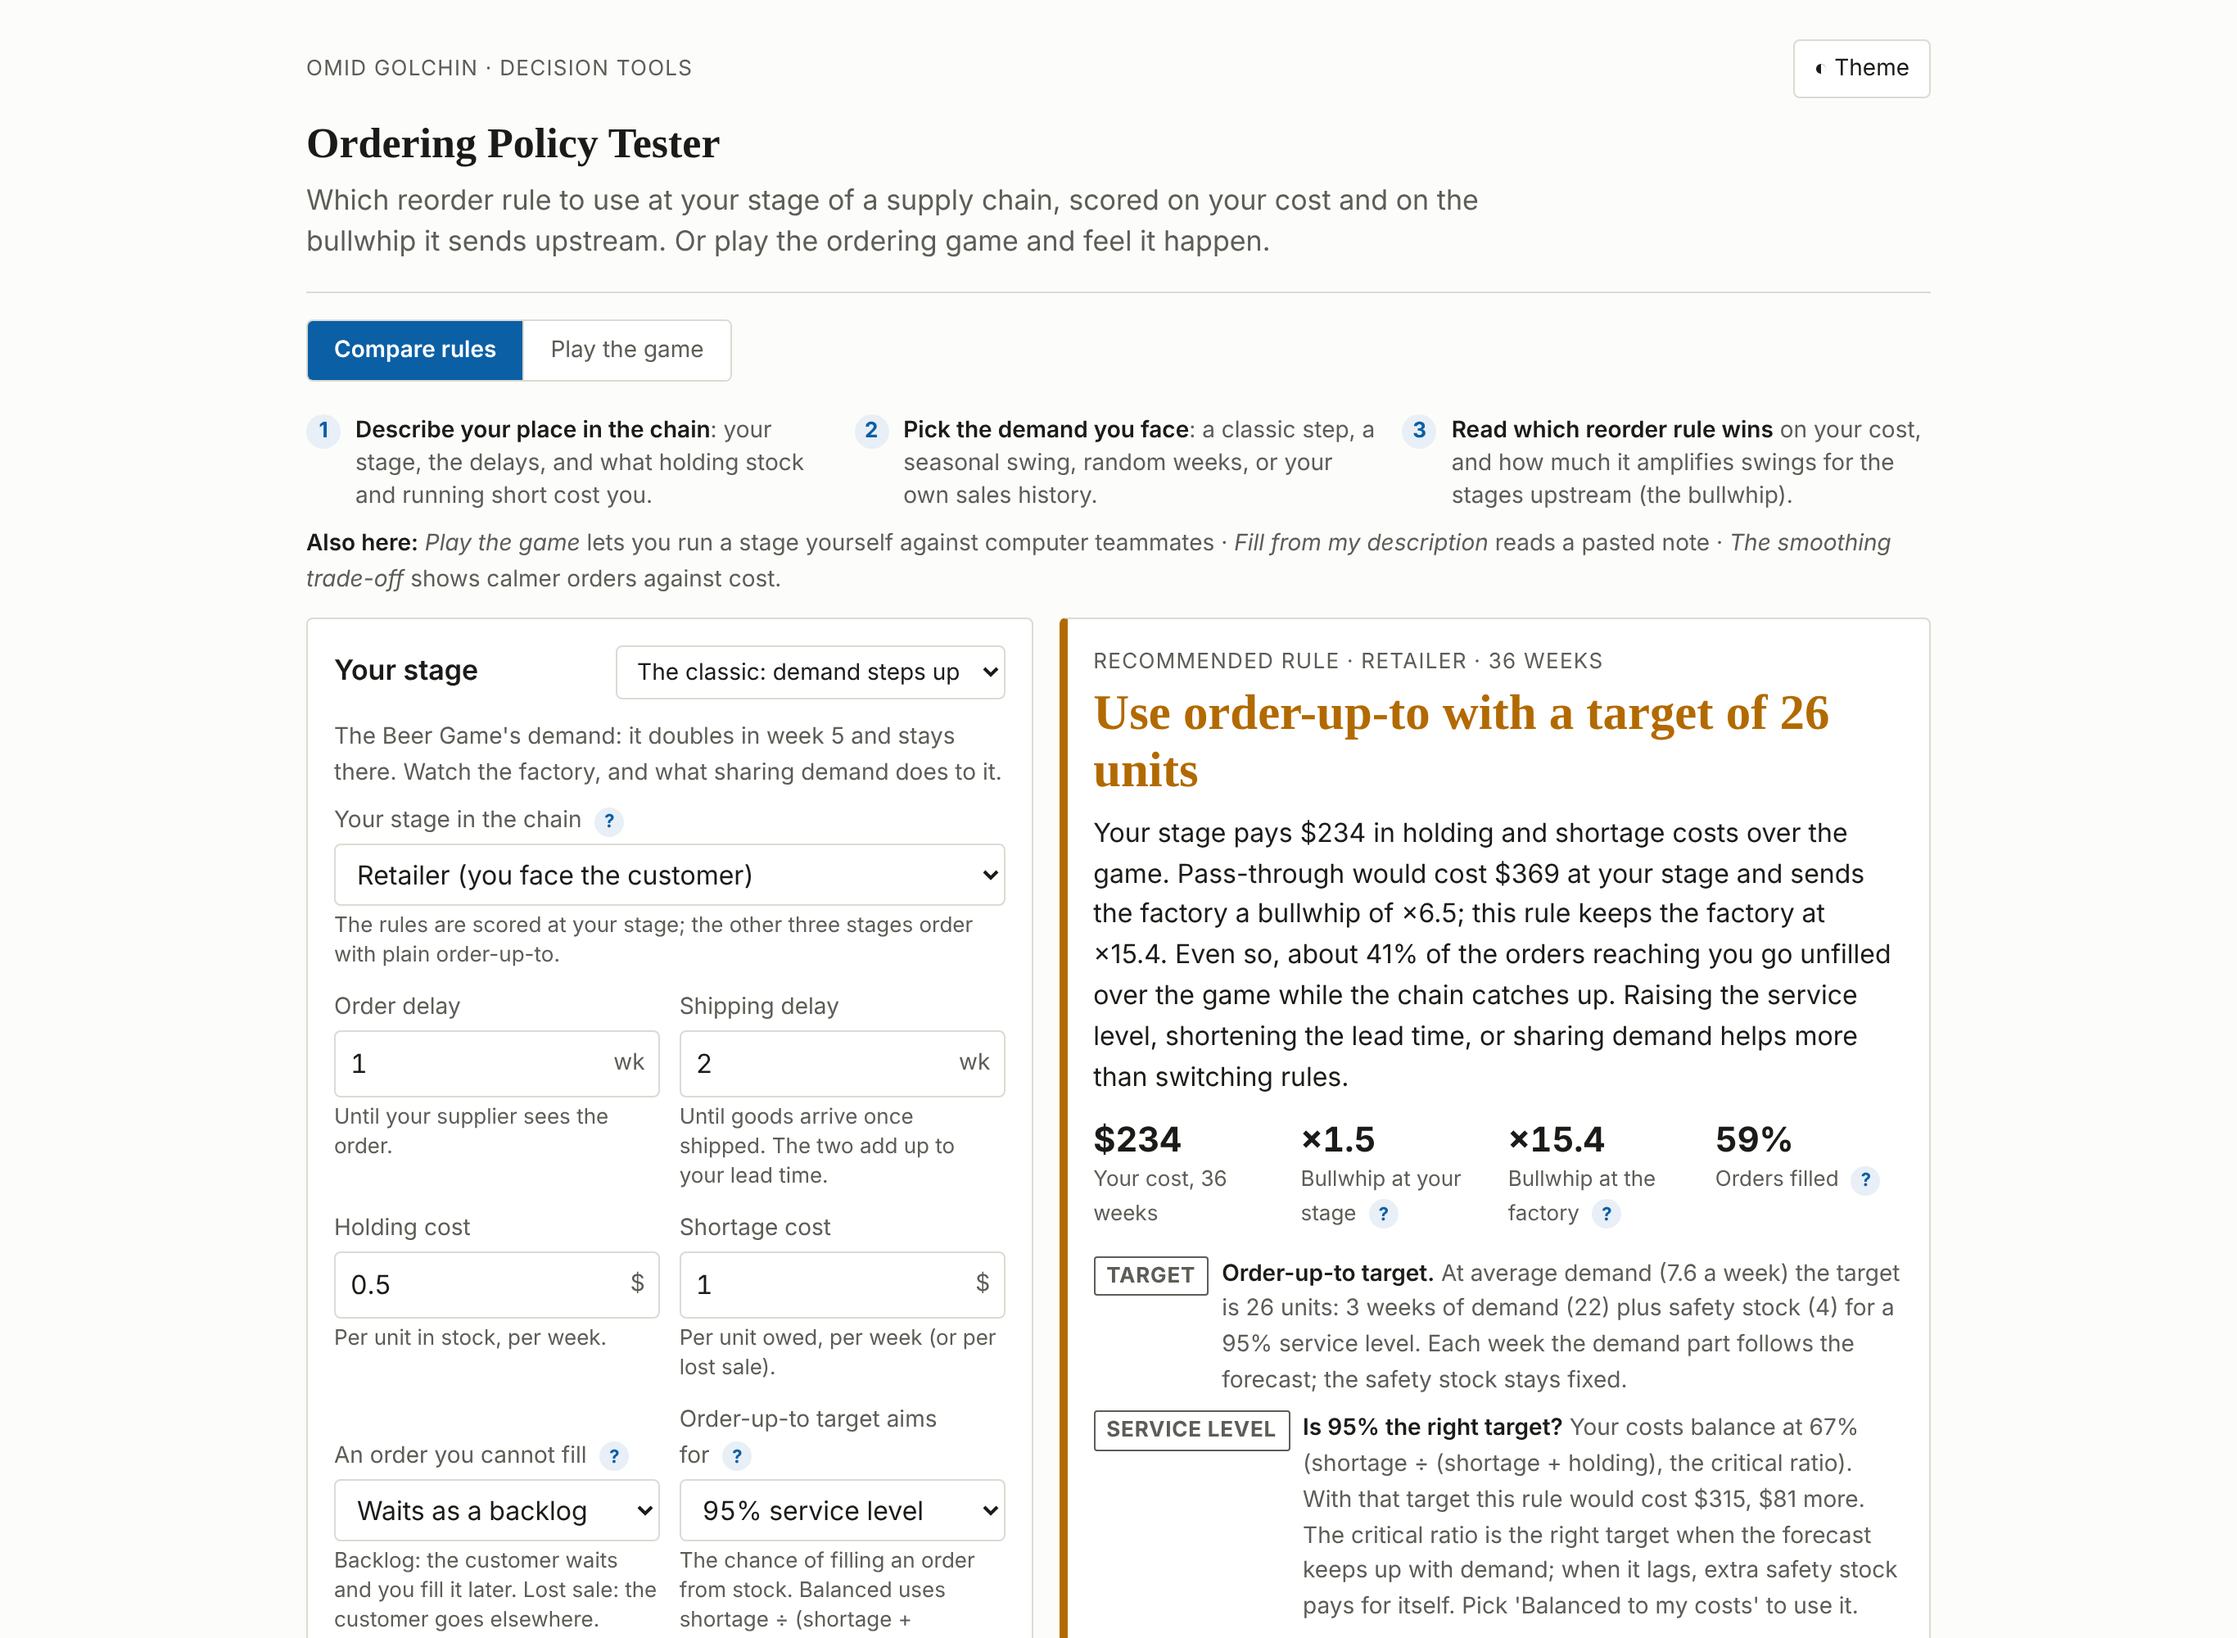
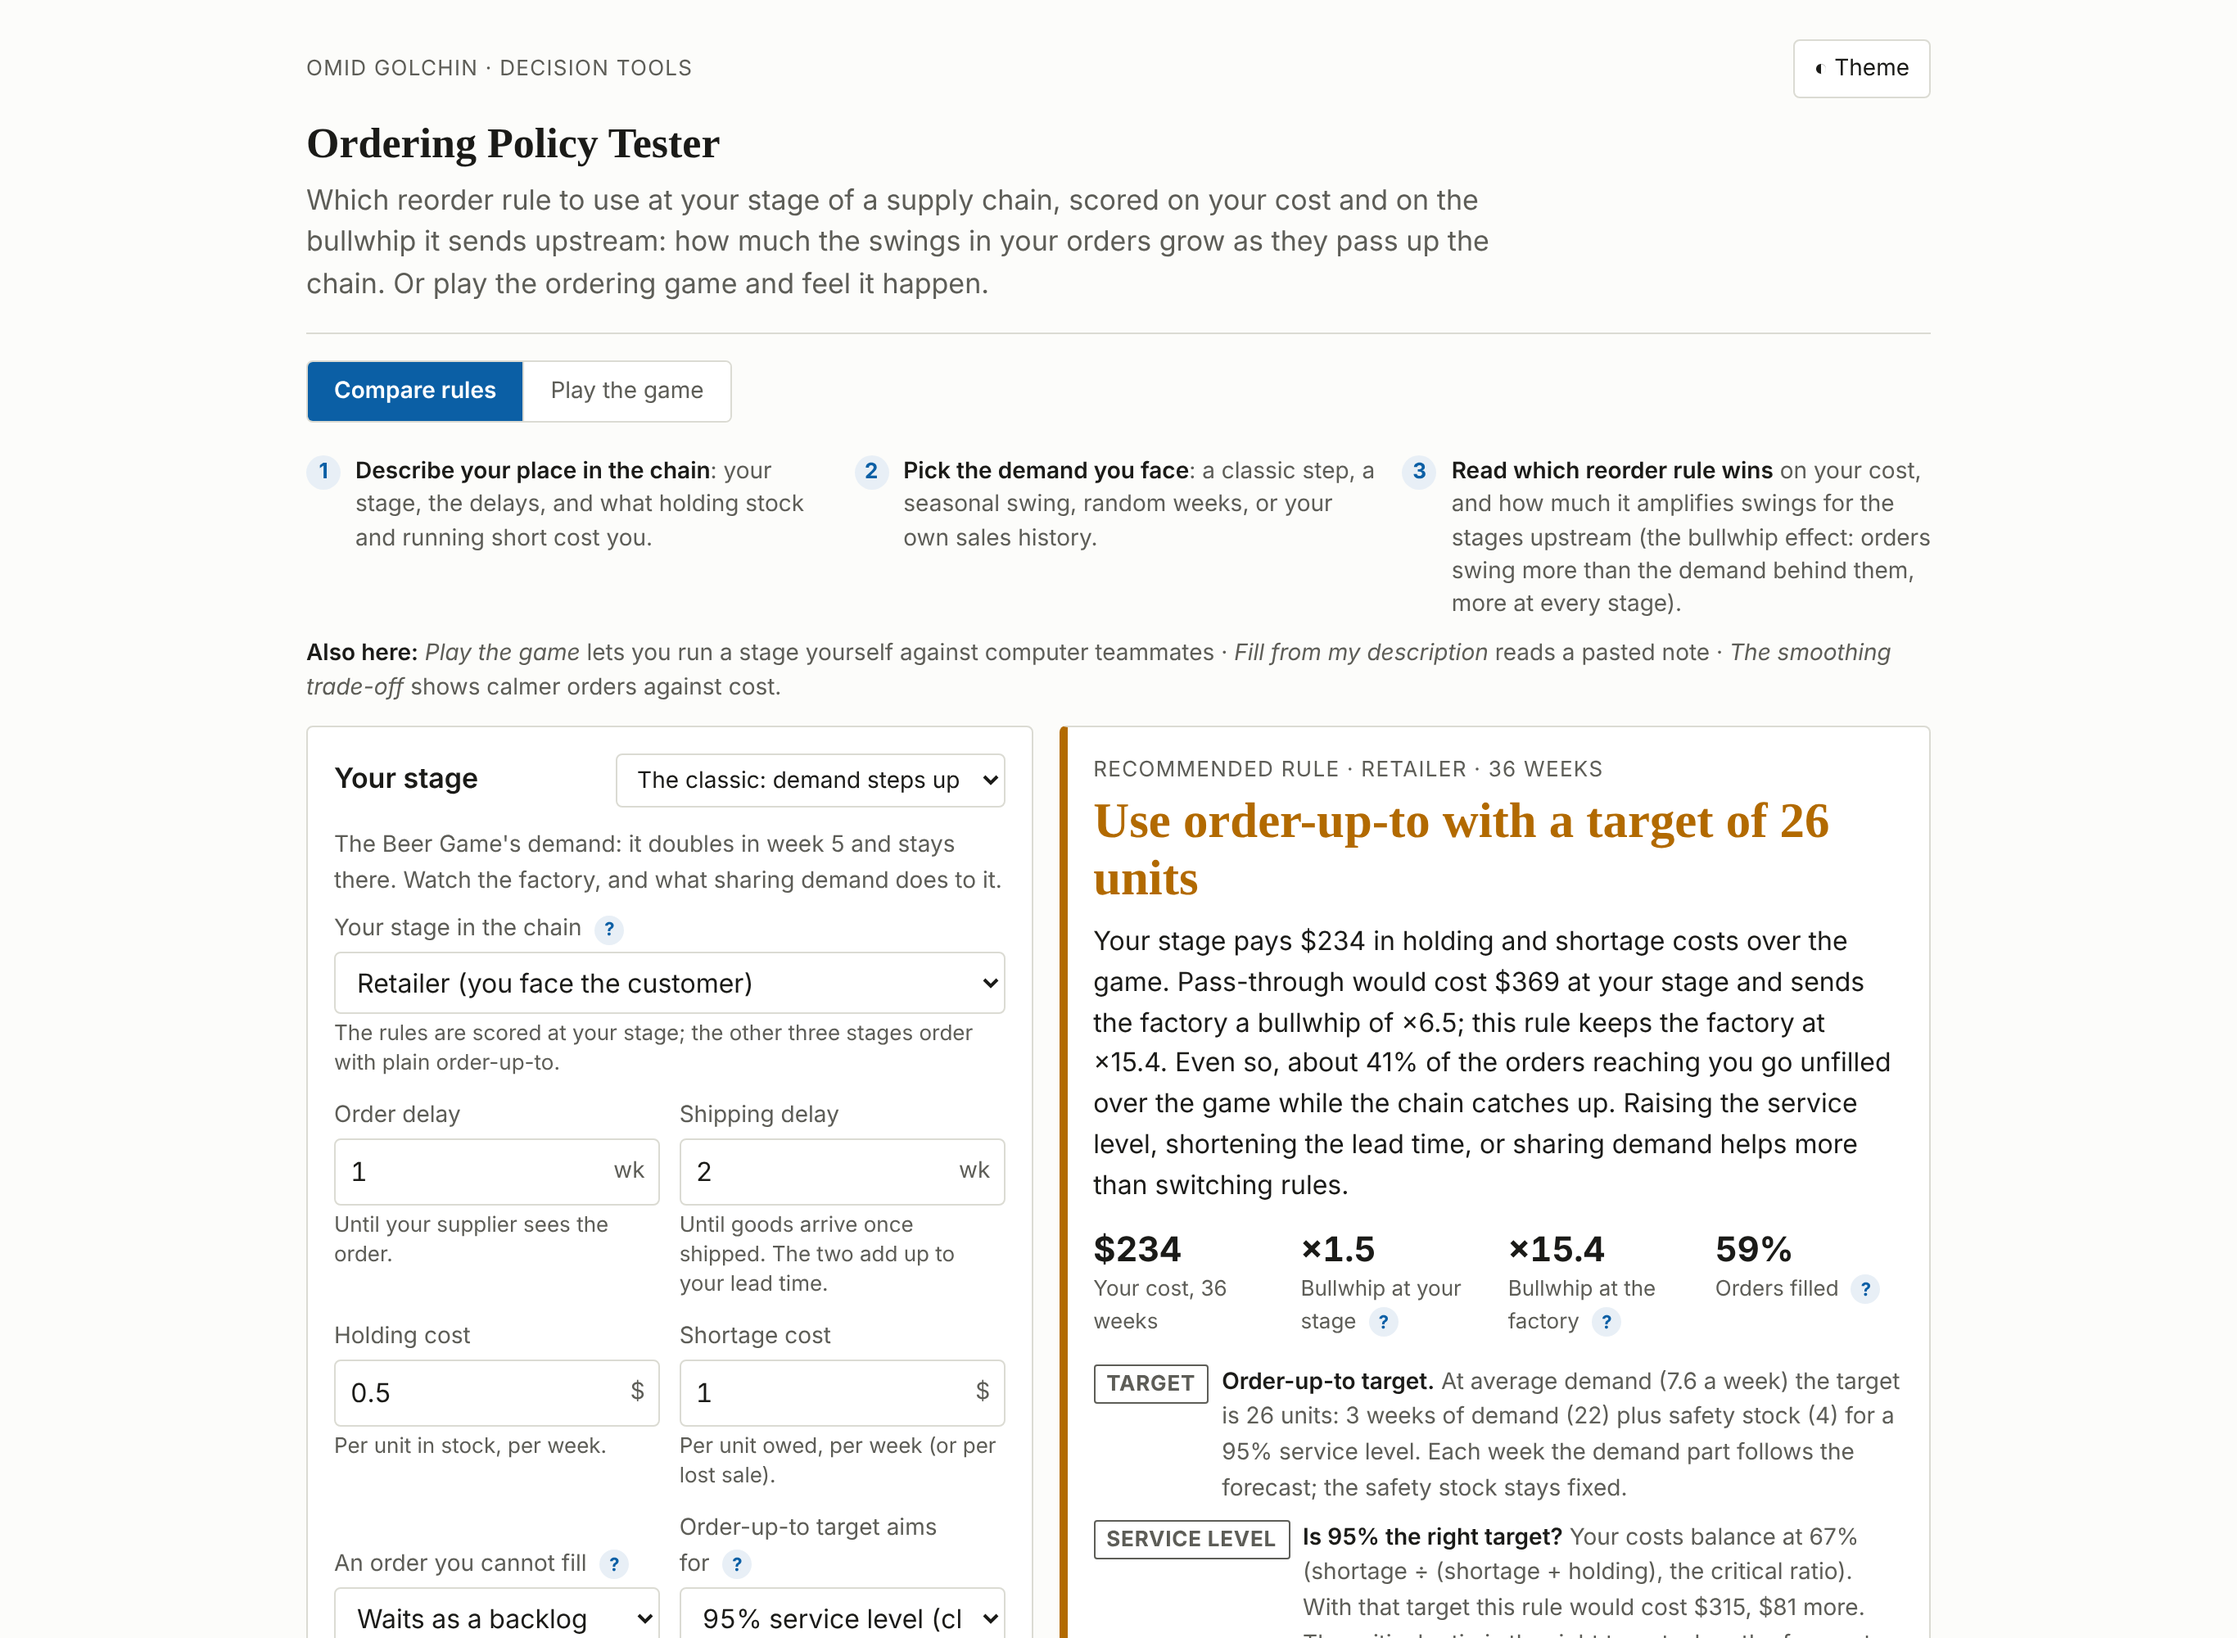
Name the inherited settings in Play mode; define the bullwhip at first use; fix the Compare rules name
Kit: every ? has a hover title, a Skip to the result link on narrow screens, and an example banner for prefilled demo content. README, hero GIF and screenshots regenerated from the page.

Changed region(s): [[0.1245, 0.124, 0.8712, 1.0]]

diff --git a/docs/tool-common.js b/docs/tool-common.js
@@ -9,6 +9,7 @@
  *   Tool.explain(glossary)         "?" buttons that open a plain-language explanation
  *   Tool.siblings(currentRepo)     the "More tools" footer line, from one shared list
  *   Tool.tabs(tablist)             arrow-key support for a mode switch
+ *   Tool.exampleBanner(form, text) marks prefilled example content where it sits
  *
  * No dependencies. Works from file:// and on GitHub Pages.
  */
@@ -433,6 +434,7 @@
       if (btn.tagName === "BUTTON") btn.type = "button";
       if (!btn.textContent.trim()) btn.textContent = "?";
       btn.setAttribute("aria-label", "What is " + g.t.replace(/[.?:]$/, "") + "?");
+      btn.title = "Explain: " + g.t.replace(/[.?:]$/, "");
       btn.setAttribute("aria-expanded", "false");
       // keep the "?" on the same line as the last word before it
       var prev = btn.previousSibling;
@@ -531,16 +533,45 @@
     sync(); new MutationObserver(sync).observe(list, { subtree: true, attributes: true, attributeFilter: ["aria-selected"] });
   }
 
+
+  /* ---------------- example banner, jump to result ---------------- */
+  // Marks prefilled example content where it sits, so a first-time visitor
+  // does not read the demo verdict as their own. text = null hides it.
+  function exampleBanner(form, text) {
+    if (!form) return;
+    var b = form.querySelector(":scope > .ex-banner");
+    if (!text) { if (b) b.hidden = true; return; }
+    if (!b) {
+      b = document.createElement("p"); b.className = "ex-banner"; b.setAttribute("role", "status");
+      var head = form.querySelector(":scope > .panel-head");
+      if (head && head.nextSibling) form.insertBefore(b, head.nextSibling); else form.insertBefore(b, form.firstChild);
+    }
+    b.hidden = false;
+    b.innerHTML = '<span class="ex-tag">Example</span> ' + text;
+  }
+  // On narrow screens the inputs come first; give a way straight to the result.
+  function jumpLinks() {
+    document.querySelectorAll(".work").forEach(function (w, i) {
+      var form = w.querySelector("form.panel"), v = w.querySelector(".verdict");
+      if (!form || !v || form.querySelector(".jump")) return;
+      if (!v.id) v.id = "result-" + i;
+      var a = document.createElement("a"); a.className = "jump"; a.href = "#" + v.id; a.textContent = "Skip to the result ↓";
+      var head = form.querySelector(":scope > .panel-head");
+      if (head && head.nextSibling) form.insertBefore(a, head.nextSibling); else form.insertBefore(a, form.firstChild);
+    });
+  }
+
   if (typeof document !== "undefined") {
     document.addEventListener("DOMContentLoaded", function () {
       var m = location.pathname.match(/\/([^\/]+)\/(?:docs\/)?(?:index\.html)?$/);
       siblings(m ? m[1] : "");
       tabs();
       alignFields();
+      jumpLinks();
     });
   }
 
-  var api = { explain: explain, alignFields: alignFields, closeTip: closeTip, siblings: siblings, tabs: tabs, TOOLS: TOOLS, readParams: readParams, writeParams: writeParams, copy: copy, fmt: fmt, lineChart: lineChart, niceTicks: niceTicks, assist: assist, _buildPrompt: buildPrompt, _parseReply: parseReply, _quoteFound: quoteFound, _coerce: coerce };
+  var api = { explain: explain, alignFields: alignFields, exampleBanner: exampleBanner, jumpLinks: jumpLinks, closeTip: closeTip, siblings: siblings, tabs: tabs, TOOLS: TOOLS, readParams: readParams, writeParams: writeParams, copy: copy, fmt: fmt, lineChart: lineChart, niceTicks: niceTicks, assist: assist, _buildPrompt: buildPrompt, _parseReply: parseReply, _quoteFound: quoteFound, _coerce: coerce };
   if (typeof module !== "undefined" && module.exports) module.exports = api;
   if (typeof window !== "undefined") window.Tool = api;
 })();

diff --git a/docs/index.html b/docs/index.html
@@ -45,7 +45,7 @@
       <button type="button" class="kit-theme-toggle" aria-pressed="false">◐ Theme</button>
     </div>
     <h1>Ordering Policy Tester</h1>
-    <p class="kit-tagline">Which reorder rule to use at your stage of a supply chain, scored on your cost and on the bullwhip it sends upstream. Or play the ordering game and feel it happen.</p>
+    <p class="kit-tagline">Which reorder rule to use at your stage of a supply chain, scored on your cost and on the bullwhip it sends upstream: how much the swings in your orders grow as they pass up the chain. Or play the ordering game and feel it happen.</p>
   </header>
 
   <div class="tool-modes" role="tablist" aria-label="What do you want to do?">
@@ -59,7 +59,7 @@
       <ol class="steps">
         <li><b>Describe your place in the chain</b>: your stage, the delays, and what holding stock and running short cost you.</li>
         <li><b>Pick the demand you face</b>: a classic step, a seasonal swing, random weeks, or your own sales history.</li>
-        <li><b>Read which reorder rule wins</b> on your cost, and how much it amplifies swings for the stages upstream (the bullwhip).</li>
+        <li><b>Read which reorder rule wins</b> on your cost, and how much it amplifies swings for the stages upstream (the bullwhip effect: orders swing more than the demand behind them, more at every stage).</li>
       </ol>
       <p class="also"><b>Also here:</b> <i>Play the game</i> lets you run a stage yourself against computer teammates · <i>Fill from my description</i> reads a pasted note · <i>The smoothing trade-off</i> shows calmer orders against cost.</p>
     </div>
@@ -94,12 +94,12 @@
             </select><div class="hint">Backlog: the customer waits and you fill it later. Lost sale: the customer goes elsewhere.</div></div>
           <div class="field"><label for="serviceLevel">Order-up-to target aims for <button type="button" data-tip="service"></button></label>
             <select id="serviceLevel">
-              <option value="auto">Balanced to my costs</option>
+              <option value="auto">Balanced to my costs (recommended once the costs are yours)</option>
               <option value="0.9">90% service level</option>
-              <option value="0.95" selected>95% service level</option>
+              <option value="0.95" selected>95% service level (classic-game default)</option>
               <option value="0.99">99% service level</option>
             </select>
-            <div class="hint">The chance of filling an order from stock. Balanced uses shortage ÷ (shortage + holding).</div></div>
+            <div class="hint">The chance of filling an order from stock. It starts at 95%, the textbook setting for the classic game; switch to Balanced once the costs above are your real ones, and the tool sets it from shortage ÷ (shortage + holding).</div></div>
           <div class="field"><label for="demandPattern">Customer demand <button type="button" data-tip="demand"></button></label>
             <select id="demandPattern">
               <option value="step">Steps up (classic)</option>
@@ -233,6 +233,7 @@
 
       <section class="panel" id="playPanel" aria-live="polite">
         <h2 id="playTitle">The ordering game</h2>
+        <p class="small muted" id="playRules" hidden style="margin-top:0"></p>
         <p id="playStatus">Pick your role and teammates, then start. You will place one order a week for 36 weeks; at the end, your cost and bullwhip ratio are set next to the best rule's on the same demand.</p>
         <div class="stage-grid" id="playStages"></div>
         <div class="play-turn" id="playTurn" hidden>

diff --git a/docs/app.js b/docs/app.js
@@ -268,7 +268,7 @@
       var cr = criticalRatio(inp.config.holdingCost, inp.config.backlogCost);
       var crSl = Math.min(0.995, Math.max(0.5, cr));
       if ($("serviceLevel").value === "auto") {
-        checks.push(["ok", "COST-BALANCED", "Service level from your costs",
+        checks.push(["ok", "FROM YOUR COSTS", "Service level from your costs",
           "The target aims for " + pct(crSl) + ": shortage cost ÷ (shortage + holding) = " + fmtN(inp.config.backlogCost, 2) + " ÷ " + fmtN(inp.config.backlogCost + inp.config.holdingCost, 2) + ", the critical ratio (Silver, Pyke and Thomas, 2016)." +
           (cr < 0.5 ? " Your ratio is below 50%; the tool keeps at least 50% so the target never drops under expected lead-time demand." : "")]);
       } else if (Math.abs(inp.config.serviceLevel - crSl) >= 0.05) {
@@ -302,7 +302,7 @@
       var bwHi = altFactoryBullwhip(Object.assign({}, inp.config, { forecastWeeks: fwHi }), inp.seriesList, inp.stage, pol);
       if (bwLo !== null && bwHi !== null) {
         var spread = Math.max(bwLo, bwHi, R.factoryBullwhip) / Math.max(0.01, Math.min(bwLo, bwHi, R.factoryBullwhip));
-        checks.push([spread > 1.5 ? "warn" : "info", "FORECAST", "Forecast window",
+        checks.push([spread > 1.5 ? "warn" : "info", "FORECAST WINDOW", "Forecast window",
           "Every stage forecasts demand from the last " + fwNow + " weeks of " + (inp.config.infoSharing ? "customer demand" : "the orders it receives") + "; the factory's bullwhip is " + bw(R.factoryBullwhip) +
           ". With " + fwLo + " weeks it would be " + bw(bwLo) + ", with " + fwHi + " weeks " + bw(bwHi) + ". Short windows chase noise and each stage adds its own (Chen, Drezner, Ryan and Simchi-Levi, 2000)" +
           (spread > 1.5 ? "; the window matters as much as the rule here." : ".")]);
@@ -479,7 +479,7 @@
   function startGame() {
     var inp = readInputs();
     if (inp.problems.length) {
-      $("playStatus").textContent = "The Compare settings need fixing first (" + inp.problems[0] + "). Switch to Compare policies, fix the highlighted settings, then start again.";
+      $("playStatus").textContent = "The Compare settings need fixing first (" + inp.problems[0] + "). Switch to Compare rules, fix the highlighted settings, then start again.";
       return;
     }
     var bp = playBotPolicies();
@@ -495,6 +495,9 @@
       snapshot: null, preview: null, suggestion: 0, log: []
     };
     $("playEnd").innerHTML = "";
+    var c = inp.config;
+    $("playRules").textContent = "Using the settings from Compare rules: order delay " + c.orderDelay + " wk, shipping delay " + c.shipDelay + " wk, holding $" + Number(c.holdingCost).toFixed(2) + " and shortage $" + Number(c.backlogCost).toFixed(2) + " per unit-week, " + (c.costModel === "lost" ? "unfilled orders lost" : "unfilled orders wait as a backlog") + ". Change them there and start a new game.";
+    $("playRules").hidden = false;
     $("playTitle").textContent = "You are the " + STAGE_TITLES[play.role].toLowerCase();
     renderPlayTiles();
     drawPlayChart();

diff --git a/docs/tool.css b/docs/tool.css
@@ -138,3 +138,7 @@ select.example { font-size: var(--fs-small); }
 .fields.sg-on > :not(.sg) { margin-bottom: var(--sp-3); }
 .fields.sg-on > .group-label { margin: var(--sp-2) 0 6px; }
 .field-after:empty { display: none; }
+.ex-banner { margin: 0 0 var(--sp-3); padding: 6px 10px; border-radius: var(--radius); background: var(--accent-soft); color: var(--fg); font-size: var(--fs-small); line-height: 1.45; }
+.ex-banner .ex-tag { display: inline-block; font-size: var(--fs-caption); font-weight: 700; letter-spacing: .04em; text-transform: uppercase; color: var(--accent); margin-right: 4px; }
+.jump { display: none; }
+@media (max-width: 820px) { .jump { display: inline-block; margin: 0 0 var(--sp-3); font-size: var(--fs-small); font-weight: 600; } }
